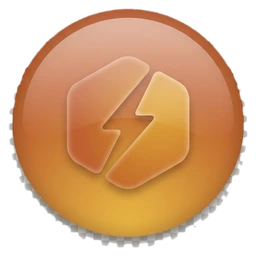
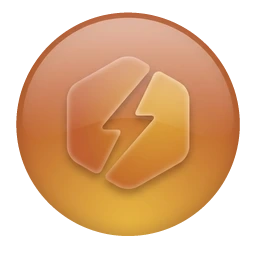
Pilares: recorte limpio de los 4 íconos (sin restos del fondo original)

Changed region(s): [[0.0312, 0.0312, 0.9688, 0.9688]]

diff --git a/css/styles.css b/css/styles.css
@@ -1809,8 +1809,10 @@ section.dark .btn-ghost,.hero .btn-ghost{border-color:var(--panel-line)}
 }
 /* Sin el círculo rosado (--panel-2) de atrás (pedido del usuario,
    2026-09-19): el ícono (esfera de 256px, ocupa todo su cuadro) pasa de
-   32px a 56px para no quedar chico sin el fondo. */
-.pillar-icon-img{width:56px;height:56px;object-fit:contain;filter:drop-shadow(0 4px 8px rgba(38,22,31,.18))}
+   32px a 56px para no quedar chico sin el fondo. `margin-left:-3px`
+   compensa el margen transparente de la imagen (la esfera mide r≈114 de
+   128) para que el borde del disco alinee con el texto de la tarjeta. */
+.pillar-icon-img{width:56px;height:56px;object-fit:contain;margin-left:-3px;filter:drop-shadow(0 4px 8px rgba(38,22,31,.18))}
 .pillar h3{font-size:18px;font-weight:700}
 .pillar p{font-size:14.5px;color:var(--ink-soft)}
 

diff --git a/scripts/limpiar-iconos-pilares.py b/scripts/limpiar-iconos-pilares.py
@@ -1,0 +1,84 @@
+#!/usr/bin/env python3
+"""Limpia el halo/fondo original de las 4 esferas de img/Iconos/icon-*.webp
+usadas en Pilares (#lam-04).
+
+Los .webp venían con un borde "sucio" (píxeles semitransparentes grises,
+resto del fondo original). La esfera en sí es un disco sólido, así que:
+  1. máscara = píxeles totalmente opacos, componente más grande, sin huecos;
+  2. se erosiona 2px y se extiende el color de adentro hacia afuera (para que
+     ningún píxel del borde mezcle color del fondo viejo);
+  3. se ajusta un círculo a esa máscara y se usa como alfa final, con
+     antialias por supersampling (bordes limpios y redondos).
+Uso: python3 scripts/limpiar-iconos-pilares.py  (sobrescribe los 4 .webp)
+"""
+import sys
+import numpy as np
+from PIL import Image
+from scipy import ndimage as ndi
+import cv2
+
+NOMBRES = ['omega3', 'antioxidantes', 'complejo-b', 'hidratacion']
+SS = 4  # factor de supersampling para el alfa
+
+def limpiar(ruta):
+    im = Image.open(ruta).convert('RGBA')
+    a = np.array(im)
+    h, w = a.shape[:2]
+    # La esfera es de color saturado; el borde sucio es un tablero de ajedrez
+    # gris horneado (R≈G≈B) que quedó como opaco/semitransparente. Se separa
+    # por croma (max-min de canales), no solo por alfa.
+    rgb0 = a[..., :3].astype(int)
+    croma = rgb0.max(2) - rgb0.min(2)
+    m = (a[..., 3] >= 250) & (croma > 28)
+    m = ndi.binary_opening(m, structure=np.ones((3, 3)))
+    lab, n = ndi.label(m)
+    sizes = ndi.sum(m, lab, range(1, n + 1))
+    m = lab == (1 + int(np.argmax(sizes)))
+    m = ndi.binary_fill_holes(m)
+    # círculo por RANSAC sobre el contorno: la sombra/checker de abajo entra
+    # en la máscara opaca y sesga un ajuste por mínimos cuadrados normal,
+    # así que se busca el círculo con más puntos del contorno a <=1.2px.
+    cnts, _ = cv2.findContours(m.astype(np.uint8), cv2.RETR_EXTERNAL, cv2.CHAIN_APPROX_NONE)
+    pts = max(cnts, key=len)[:, 0, :].astype(float)
+    rng = np.random.default_rng(0)
+    mejor, mejor_n = None, -1
+    for _ in range(4000):
+        p1, p2, p3 = pts[rng.choice(len(pts), 3, replace=False)]
+        A = np.array([[p2[0]-p1[0], p2[1]-p1[1]], [p3[0]-p1[0], p3[1]-p1[1]]]) * 2
+        if abs(np.linalg.det(A)) < 1e-6:
+            continue
+        b = np.array([(p2**2).sum()-(p1**2).sum(), (p3**2).sum()-(p1**2).sum()])
+        c0 = np.linalg.solve(A, b)
+        r0 = np.hypot(*(p1 - c0))
+        if not (100 < r0 < 128):
+            continue
+        n_in = (np.abs(np.hypot(pts[:, 0]-c0[0], pts[:, 1]-c0[1]) - r0) <= 1.2).sum()
+        if n_in > mejor_n:
+            mejor, mejor_n = (c0[0], c0[1], r0), n_in
+    cx, cy, r = mejor
+    # refinar con los inliers
+    d = np.hypot(pts[:, 0]-cx, pts[:, 1]-cy)
+    q = pts[np.abs(d - r) <= 1.5]
+    A = np.c_[2*q[:, 0], 2*q[:, 1], np.ones(len(q))]
+    cx, cy, c = np.linalg.lstsq(A, (q**2).sum(1), rcond=None)[0]
+    r = np.sqrt(c + cx**2 + cy**2)
+    print(f'   inliers {mejor_n}/{len(pts)}')
+    # color: erosionar y propagar hacia afuera desde el interior seguro
+    core = ndi.binary_erosion(m, iterations=3)
+    idx = ndi.distance_transform_edt(~core, return_distances=False, return_indices=True)
+    rgb = a[..., :3][idx[0], idx[1]]
+    # alfa: disco ajustado, supersampleado (radio -2.5px: se come el último aro gris que el croma no separa del todo)
+    yy, xx = np.mgrid[0:h * SS, 0:w * SS]
+    d = np.hypot((xx + .5) / SS - .5 - cx, (yy + .5) / SS - .5 - cy)
+    disco = (d <= r - 2.5).astype(np.float32)
+    alfa = disco.reshape(h, SS, w, SS).mean((1, 3))
+    # dentro del disco usar siempre el píxel original, fuera el propagado
+    out = np.dstack([rgb, (alfa * 255).round().astype(np.uint8)])
+    Image.fromarray(out, 'RGBA').save(ruta, 'WEBP', quality=95, method=6)
+    return cx, cy, r
+
+if __name__ == '__main__':
+    for n in NOMBRES:
+        ruta = f'img/Iconos/icon-{n}.webp'
+        cx, cy, r = limpiar(ruta)
+        print(f'{n}: centro=({cx:.1f},{cy:.1f}) r={r:.1f}')

diff --git a/changelog.md b/changelog.md
@@ -11,6 +11,28 @@
 > rediseño del dashboard, la animación de los anillos de Método, y el
 > proceso completo de Visión).
 
+## 2026-09-19 — Pilares: recorte limpio de los 4 íconos (sin restos del fondo original)
+
+Al sacar el círculo rosado se vieron restos del fondo original alrededor
+de las esferas. El usuario ofreció regenerarlas con otra IA; se probó
+primero arreglarlas por código y quedaron bien, así que no hizo falta.
+
+Causa: los .webp (256×256) tenían un **tablero de ajedrez gris** (la
+"transparencia" de un editor, horneada como píxeles) en un aro de ~8px
+en la parte de abajo y un halo semitransparente alrededor.
+
+Solución (`scripts/limpiar-iconos-pilares.py`, reproducible):
+1. Máscara de la esfera por **croma** (max−min de canales > 28) y alfa
+   opaco: el tablero es gris, la esfera es de color.
+2. Círculo ajustado con RANSAC sobre el contorno (un ajuste normal salía
+   sesgado por el tablero); r≈114 sobre 128.
+3. Color de afuera del núcleo extendido desde adentro; alfa nuevo con
+   antialias por supersampling y radio −2.5px.
+- `.pillar-icon-img` suma `margin-left:-3px` (la esfera ya no llega al
+  borde de su cuadro; así el disco alinea con el texto).
+- Verificado sobre fondo blanco y oscuro y dentro de la página a 1440px
+  @2x. Originales sin limpiar quedan solo en git (commit anterior).
+
 ## 2026-09-19 — Pilares: íconos sin el fondo rosado y más grandes
 
 Pedido del usuario: quitar el fondo rosado de los íconos de las 4 tarjetas

diff --git a/memoria.md b/memoria.md
@@ -577,6 +577,15 @@ próximos pasos).
   32px a 56px (las esferas de `img/Iconos/icon-*.webp` son de 256px y
   ocupan todo su cuadro) y suma un `drop-shadow` suave. Los `width/height`
   del `<img>` en `index.html` se actualizaron a 56.
+  **Recorte limpio de los 4 íconos (2026-09-19)**: los `img/Iconos/icon-
+  {omega3,antioxidantes,complejo-b,hidratacion}.webp` traían un tablero de
+  ajedrez gris horneado (fondo transparente "falso") pegado al borde,
+  sobre todo abajo. Se limpiaron por código con
+  `scripts/limpiar-iconos-pilares.py` (separa la esfera por croma, ajusta
+  el círculo con RANSAC, alfa antialiasado, r−2.5px). El script
+  **sobrescribe los .webp**: si se regeneran los originales (ej. con IA),
+  correrlo de nuevo sobre ellos. `.pillar-icon-img` suma `margin-left:-3px`
+  para alinear el borde del disco con el texto.
   **Frutas/alimentos grandes difuminados de fondo (sesión 2026-09-17)**:
   antes la sección solo tenía 1 `.deco-fruit` (aguacate). Hoy tiene 4,
   todas `.deco-fruit` (ocultas en mobile `<720px` por la regla general,
